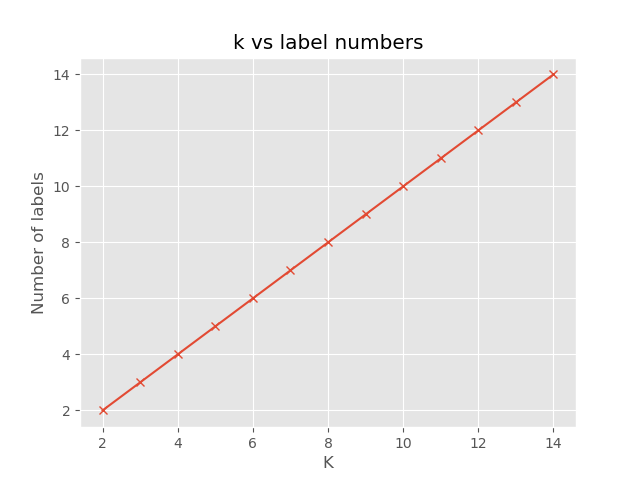
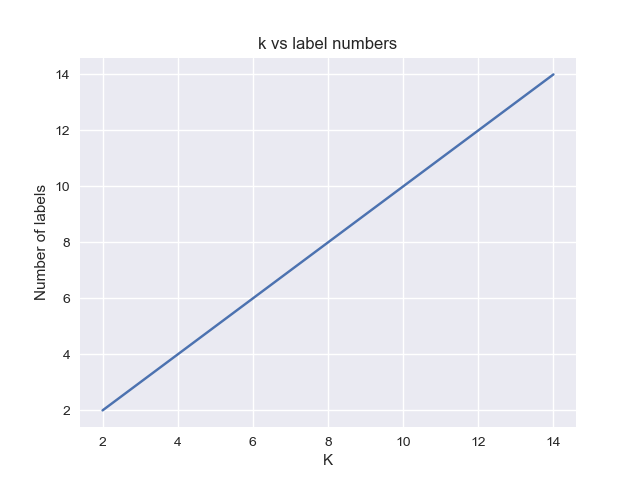
updated

diff --git a/KMeans_Optimized.py b/KMeans_Optimized.py
@@ -7,6 +7,7 @@ import numpy as np
 import pandas as pd
 import matplotlib.pyplot as plt
 from matplotlib import style
+import seaborn as sns
 from sklearn.preprocessing import StandardScaler
 from sklearn import preprocessing, cross_validation
 from sklearn.cluster import KMeans
@@ -16,7 +17,7 @@ from EDA import *
 
 
 ## Constants
-Resource = "res"
+Resource = "data"
 Result_Folder = "result"
 FILE_NAME = Resource+"/iris_no_label.csv"
 
@@ -27,6 +28,8 @@ except OSError:
 
 ## Settings
 style.use('ggplot')
+
+sns.set()
 
     
 def main():
@@ -79,6 +82,37 @@ def main():
             ## Saving Cost or inertia for specific K value of clustering model
             costs.append(cost)
 
+    k_ticks = ["k"+str(k) for k in k_s]
+    #ind = np.arange(len(range(2,15)))
+
+    print(data.columns)
+
+    def bins_labels(bins, **kwargs):
+        bin_w = (max(bins) - min(bins)) / (len(bins) - 1)
+        print(bin_w)
+        print(np.arange(min(bins)+bin_w/2, max(bins), bin_w))
+        print(min(bins)+bin_w/2, max(bins), bin_w)
+        print(np.arange(0.5,3, 1))
+        plt.xticks(np.arange(0.5,3, 1), bins, **kwargs)
+        #plt.xlim(bins[0], bins[-1])
+
+    labels = data['k3_label'].unique()
+    
+    ## All possibilities with value of K
+    fig = plt.figure("Scatter Matrix",figsize = (5,3))
+    n=1
+    for c in data.ix[:,4:].columns:
+        ax = plt.subplot(5,3,n)
+        labels, counts = np.unique(data[c], return_counts=True)
+        ax.bar(labels, counts, align='center')
+        #ax.gca().set_xticks(labels)
+        ax.set_xlabel("Label")
+        ax.set_ylabel("Label Population")
+        
+        n+=1
+    plt.show()
+
+    
     ## shifting indexes to 1 row down
     data.index += 1
 
@@ -93,42 +127,52 @@ def main():
     plt.ylabel('Number of labels')
     plt.savefig(Result_Folder+"/k_vs_Number_of_labels.png")
 
+
+    ## Plot of  Optimization starts
+    plt.figure("k vs Model Cost and k vs Change rate in Model Cost")
     ## Plotting the k vs Model cost
-    plt.figure("k vs Model Cost(sum of distance from centroid)")
+    #plt.figure("k vs Model Cost(sum of distance from centroid)")
+    plt.subplot(2,1,1)
     plt.plot(k_s,costs, marker = 'x')
-    plt.title("k vs Model Cost(sum of distance from centroid)")
+    plt.title("Title:k vs Model Cost(sum of distance from centroid)")
     plt.xlabel('k')
     plt.ylabel('Model Cost')
-    plt.savefig(Result_Folder+"/k_vs_Model_Cost.png")
-
-
+    #plt.savefig(Result_Folder+"/k_vs_Model_Cost.png")
 
     ##d/dk(costs) = slope of Costs reference to K value = Rate of change of Costs reference to change of x
     M = slope_list_curve(k_s,costs)
 
-    ## Visualizing optimized K value    
-    plt.figure("k vs d/dk(Cost)")
+    ## Visualizing optimized K value
+    plt.subplot(2,1,2)
+    #plt.figure("k vs d/dk(Cost)")
     plt.plot(k_s,M, marker = 'x')
-    plt.title("k vs Change_rate(Cost)")
+    plt.title("Title:k vs Change_rate(Cost)")
     plt.xlabel('k')
     plt.ylabel('Change in Cost')
-    plt.savefig(Result_Folder+"/ddk_costs.png")
-
-    print(costs)
-    plt.figure('HIst cost')
-    plt.hist(costs, bins=100,alpha=0.75,normed=1)
-    plt.xlabel('I')
-    plt.ylabel('Costs')
-    plt.title('HIst cost(Density) for Best Cluster Number[ later probability Dist]')
-    plt.savefig(Result_Folder+"/Histogram_costs.png")
     
+    plt.tight_layout()
+    plt.savefig(Result_Folder+"/cost_ddk_costs.png")
+    ## Plot of  Optimization ends
+    
+
+    ## Optimized Result
     best_k_index = M.index(min(M))
+    best_k = k_s[best_k_index]
     best_cluster_number = nLabels[M.index(min(M))]
-
     
-    print("Best K = %s"%(k_s[best_k_index]))
-    print("Best Label not ok = %s"%(best_cluster_number))
-    print("Finished")
+    
+    
+
+    ax = plt.figure('Best Result')
+    labels, counts = np.unique(data['k'+str(k_s[best_k_index])+'_label'], return_counts=True)
+    plt.title("Best Class Number=%s, when k=%s"%(best_cluster_number,best_k))
+    plt.bar(labels, counts, align='center')
+    plt.gca().set_xticks(labels)
+    plt.xlabel("Label")
+    plt.ylabel("Label Population")
+    plt.savefig(Result_Folder+"/best_result.png")
+    ax.show()
+    
 
 if __name__ == '__main__':
     main()

diff --git a/EDA.py b/EDA.py
@@ -1,6 +1,8 @@
 # -*- coding: utf-8 -*-
 import numpy as np
+import pandas as pd
 import matplotlib.pyplot as plt
+from sklearn.preprocessing import StandardScaler
 
 class ValueKeeper(object):
     def __init__(self, value): self.value = value
@@ -96,6 +98,13 @@ def variance(x):
     ## SSD = Sample Standard deviation = average distance from mean
     S_squared = sum( (xi - x_mean) ** 2 ) / (n - 1)
     return S_squared
+def pearson_r(x,y):
+    x = np.array(x)
+    y = np.array(y)
+    Mx = meann(x)
+    My = meann(y)
+    pearson_r = sum( (x-Mx) * (y - My) ) / ( sum( (x - Mx)**2 ) * sum( (y - My )**2 ) )**(1/2)
+    return pearson_r
 
 def standard_deviation(x):
     ## S - Average distance from the mean
@@ -160,19 +169,27 @@ def slope_list_curve( X, Y ):
         return M
 
 def scatter_matrix_graph_fit(data,s=8):
+    
     measurement_number = data.shape[1]
     n=0
-    plt.figure("Scatter Matrix",figsize = (measurement_number,measurement_number))
+    fig = plt.figure("Scatter Matrix",figsize = (measurement_number,measurement_number))
     plt.axes(frameon=False)
     
+    xS = 1
     for yI in data.columns:
         j=0
+        yS = 1
         for xI in data.columns:
+            yS = 1
             n+=1
             ax = plt.subplot(measurement_number,measurement_number,n)
             ax.scatter(data[xI],data[yI],c='mediumseagreen',s=s)
             y_hat = regression_points(data[xI],data[yI])
             ax.plot(data[xI],y_hat,c='deepskyblue',ls='-.')
+            ax.set_title("r="+str(pearson_r(data[xI],data[yI])),fontsize=10,y=.89)
+
+         
+
             #ax.axes.get_xaxis().set_visible(False)
             #ax.axes.get_yaxis().set_visible(False)
             ax.set_xticklabels([])
@@ -185,8 +202,10 @@ def scatter_matrix_graph_fit(data,s=8):
                 ax.set_xlabel(xI)
             
             j+=1
-        
-    plt.subplots_adjust(wspace=0.02, hspace=0.02)
+            yS+=1
+        xS+=1
+    
+    plt.subplots_adjust(wspace=0.02, hspace=0.08)
     plt.show()
     
     # plt.subplot(441, facecolor='y')
@@ -303,12 +322,15 @@ def good_fit_equation_lr_test():
         
 
     plt.show()
-    
 
+'''
+x = [43,21,25,42,57,59,247]
+y = [99,65,79,75,87,81,486]
+newDF = pd.DataFrame()
+newDF['x'] = x
+newDF['y'] = y
 
-
-
-
-
-
-
+print(pearson_r(x,y))
+print(np.corrcoef(x,y))
+print(covarience_matrix(newDF))
+'''

diff --git a/class_distribution.py b/class_distribution.py
@@ -1,0 +1,23 @@
+import numpy as np
+import matplotlib.pyplot as plt
+
+
+N = 5
+menMeans = [20, 35, 30, 35, 27]
+womenMeans = [25, 32, 34, 20, 25]
+menStd = [2, 3, 4, 1, 2]
+womenStd = (3, 5, 2, 3, 3)
+ind = np.arange(N)    # the x locations for the groups
+width = 0.35       # the width of the bars: can also be len(x) sequence
+
+plt.bar(ind, menMeans, width)
+plt.bar(ind, womenMeans, width, bottom=menMeans, )
+
+
+plt.ylabel('Scores')
+plt.title('Scores by group and gender')
+plt.xticks(ind, ['G1', 'G2', 'G3', 'G4', 'G5'])
+plt.yticks(np.arange(0, 81, 10))
+
+
+plt.show()
